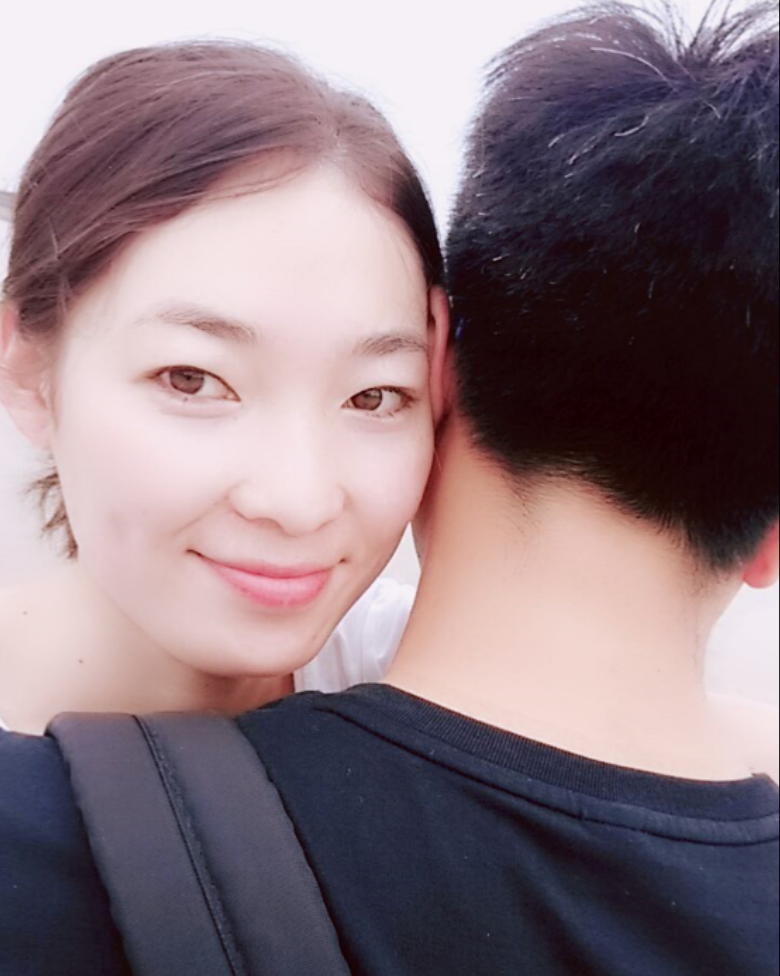
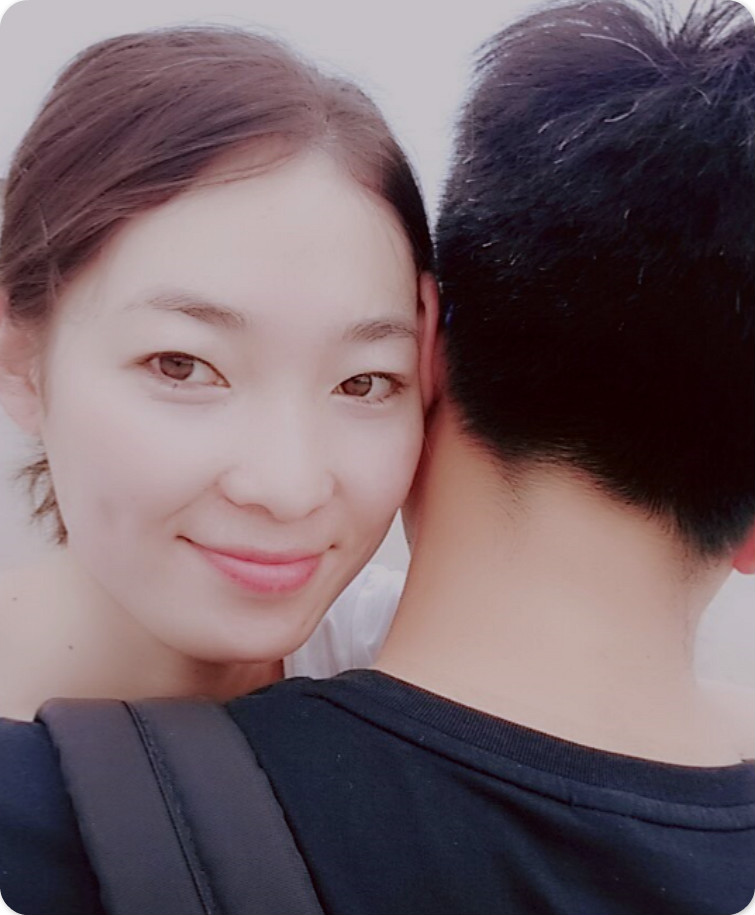
Site updated: 2016-10-25 22:12:37

diff --git a/2016/10/25/我们/index.html b/2016/10/25/我们/index.html
@@ -12,11 +12,11 @@
 <meta property="og:title" content="我们">
 <meta property="og:url" content="//litten.me/2016/10/25/我们/index.html">
 <meta property="og:site_name" content="王瑄的博客">
-<meta property="og:image" content="//litten.me/\assets\img\psb.png">
-<meta property="og:updated_time" content="2016-10-25T13:43:05.879Z">
+<meta property="og:image" content="//litten.me/\assets\img\psb.jpg">
+<meta property="og:updated_time" content="2016-10-25T14:12:26.219Z">
 <meta name="twitter:card" content="summary">
 <meta name="twitter:title" content="我们">
-<meta name="twitter:image" content="//litten.me/\assets\img\psb.png">
+<meta name="twitter:image" content="//litten.me/\assets\img\psb.jpg">
   
     <link rel="alternative" href="/atom.xml" title="王瑄的博客" type="application/atom+xml">
   
@@ -147,7 +147,7 @@
     
     <div class="article-entry" itemprop="articleBody">
       
-        <p><img src="\assets\img\psb.png" alt="我们"></p>
+        <p><img src="\assets\img\psb.jpg" alt="我们"></p>
 
       
     </div>

diff --git a/index.html b/index.html
@@ -149,7 +149,7 @@
     
     <div class="article-entry" itemprop="articleBody">
       
-        <p><img src="\assets\img\psb.png" alt="我们"></p>
+        <p><img src="\assets\img\psb.jpg" alt="我们"></p>
 
       
     </div>
